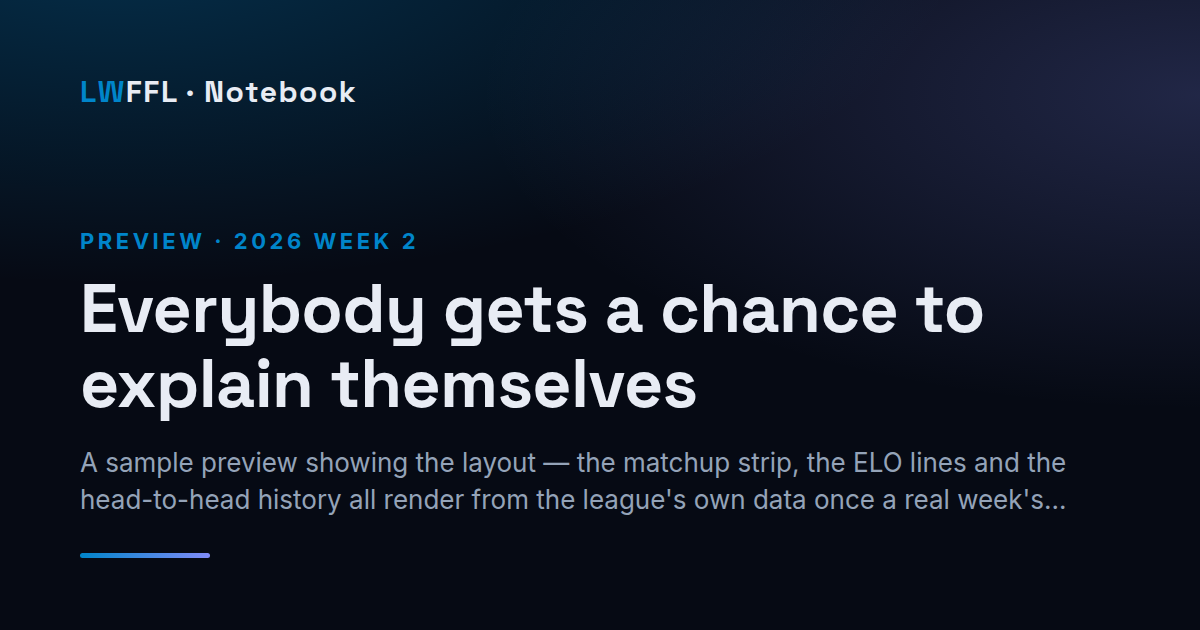
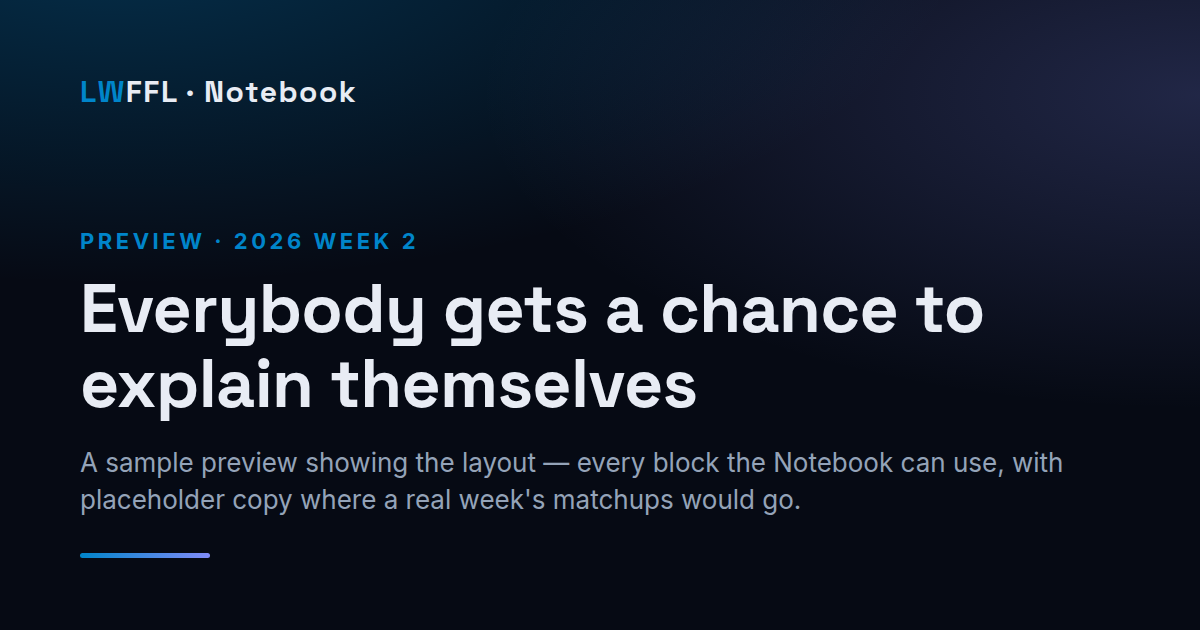
Notebook: drop the trailing note, enrich the preview, add a test image
- Removed the "every figure above is read from the box scores" note from the
  Week 1 recap.

- Rewrote the sample preview so it demonstrates the format instead of
  describing it: a stat callout, a stats row, a matchup table, a pull quote,
  a figure and a standings embed, each with a line saying what it is for. It
  was the one post still reading as flat prose.

- Added the supplied photo to the Week 1 recap via ::: image with a caption.
  It is referenced at its original URL, which means the image lives on
  someone else's CDN behind a signed "auth" parameter — if that signature
  expires the image breaks. Saving the file into n/img/ and pointing at it
  there is the durable version.

- Standings embeds now label themselves by the last week actually played
  rather than the week the post is about. A preview is written before its own
  week happens, so the sample was headed "through week 2" above week 1 rows.

Claude-Session: https://claude.ai/code/session_01FMe6u4bFLPAv1oBMJRRxgM

Changed region(s): [[0.0617, 0.7841, 0.8942, 0.8143], [0.4625, 0.6937, 0.8942, 0.754]]

diff --git a/n/2026-w2-preview.html b/n/2026-w2-preview.html
@@ -7,11 +7,11 @@
 
   <!-- Discord and iMessage read these without running JS. This is the whole
        reason each post is a real file instead of a client-rendered route. -->
-  <meta name="description" content="A sample preview showing the layout — the matchup strip, the ELO lines and the head-to-head history all render from the league's own data once a real week's schedule is in." />
+  <meta name="description" content="A sample preview showing the layout — every block the Notebook can use, with placeholder copy where a real week's matchups would go." />
   <meta property="og:type" content="article" />
   <meta property="og:site_name" content="LWFFL Notebook" />
   <meta property="og:title" content="Everybody gets a chance to explain themselves" />
-  <meta property="og:description" content="A sample preview showing the layout — the matchup strip, the ELO lines and the head-to-head history all render from the league's own data once a real week's schedule is in." />
+  <meta property="og:description" content="A sample preview showing the layout — every block the Notebook can use, with placeholder copy where a real week's matchups would go." />
   <meta property="og:url" content="https://lwffl.com/n/2026-w2-preview.html" />
   <meta property="og:image" content="https://lwffl.com/n/cards/2026-w2-preview.png" />
   <meta property="article:published_time" content="2026-09-18" />
@@ -52,7 +52,7 @@
     <header class="post-head">
       <div class="post-kicker">Preview · Week 2</div>
       <h1>Everybody gets a chance to explain themselves</h1>
-      <p class="post-dek">A sample preview showing the layout — the matchup strip, the ELO lines and the head-to-head history all render from the league's own data once a real week's schedule is in.</p>
+      <p class="post-dek">A sample preview showing the layout — every block the Notebook can use, with placeholder copy where a real week's matchups would go.</p>
       <div class="post-meta">
         <span>September 18, 2026</span><span class="dot">·</span>
         <span>Cobey</span>
@@ -62,19 +62,49 @@
     </header>
 
     <div class="post-body">
-<p class="lede">This is a <strong>sample post</strong> showing what a Thursday preview looks like on the page. The prose is placeholder; the structure is real.</p>
-<h2>How a preview reads</h2>
-<p>The opening is the week's framing — who has something to prove, which game decides an early division, what the Week 1 results did and didn't tell us. Two or three paragraphs, no more.</p>
-<p>Then the matchups worth watching, each with the line and whatever history is relevant:</p>
-<ul><li>The rematch of a playoff game nobody has stopped talking about</li><li>The one where a manager faces the guy he traded his starting quarterback to</li><li>The one that looks lopsided on paper and never is</li></ul>
-<h2>Why the numbers aren't typed here</h2>
-<p>On a real preview this section carries a matchup strip generated from the league's ELO ratings and head-to-head record — so the line and the series history are always consistent with <a href="../h2h.html">Head-to-Head</a> and never quietly go stale.</p>
+<p class="lede">This is a <strong>sample post</strong>. The copy is placeholder; every block below is real and works exactly like this in a live preview.</p>
+<p>A Thursday preview opens with the week's framing — who has something to prove, which game decides an early division, what Week 1 did and didn't tell us. Two or three paragraphs, then the numbers take over.</p>
+<h2>The number that frames the week</h2>
+<div class="pb-stat">
+        <div class="pb-stat-v">42.00</div>
+        <div class="pb-stat-t">
+          <div class="pb-stat-l">Cobey's Week 1 margin</div>
+          <div class="pb-stat-n">The largest of the opening week, and the reason he is favoured here.</div>
+          
+        </div></div>
+<p>A single figure, set large, for the one thing you want people to remember. Drop it wherever it lands hardest — usually right after the paragraph that earns it.</p>
+<h2>The slate</h2>
+<div class="pb-stats">
+        <div class="pb-stats-i">
+          <div class="pb-stats-v">6</div>
+          <div class="pb-stats-l">Games</div>
+          <div class="pb-stats-n">Week 2</div>
+        </div>
+        <div class="pb-stats-i">
+          <div class="pb-stats-v">1500</div>
+          <div class="pb-stats-l">Median ELO</div>
+          <div class="pb-stats-n">Across the league</div>
+        </div>
+        <div class="pb-stats-i">
+          <div class="pb-stats-v">4</div>
+          <div class="pb-stats-l">Rematches</div>
+          <div class="pb-stats-n">Of a 2025 playoff game</div>
+        </div></div>
+<p>A row of smaller figures when several things matter at once and none of them deserves the full treatment.</p>
+<div class="table-card post-table"><div class="table-scroll"><table>
+    <thead><tr><th>Matchup</th><th>Line</th><th>Series</th></tr></thead>
+    <tbody><tr><td>Stuart vs Cobey</td><td>Stuart −3.5</td><td>7–5 Cobey</td></tr><tr><td>Thomas vs Chad</td><td>Thomas −1.0</td><td>9–9</td></tr><tr><td>Adam vs Samuel</td><td>Samuel −8.5</td><td>4–8 Samuel</td></tr></tbody>
+    </table></div></div>
+<p>Ordinary markdown tables work, which is usually the cleanest way to lay out a slate.</p>
+<figure class="pb-pull"><blockquote>The rematch nobody has stopped talking about, eleven months later.</blockquote></figure>
+<p>A pull quote for the line worth stealing — set in the display face so it breaks the column visually rather than just sitting there in italics.</p>
 <h2>Images</h2>
-<p>Drop a file in <code>n/img/</code> and reference it the ordinary markdown way. An image on its own line becomes a figure, and the alt text becomes the caption:</p>
-<figure class="pb-fig"><img loading="lazy" alt="A share card, standing in for a real photo — any image in the repo works the same way." src="../n/cards/2026-w1-recap.png"><figcaption>A share card, standing in for a real photo — any image in the repo works the same way.</figcaption></figure>
-<p>Use <code>::: image path | caption</code> instead when the caption should differ from the alt text, and add a line inside the block to let it break the reading column on wide screens.</p>
-<p>A post can also set <code>image:</code> in its frontmatter to override the generated share card, so a link with a real photo unfurls with that photo rather than the text card.</p>
-<blockquote>Replace this file with the week's real preview and the sample badge disappears on its own.</blockquote>
+<figure class="pb-fig"><img loading="lazy" alt="A photo runs full width with its caption underneath. Drop a file in n/img/ and reference it the ordinary markdown way." src="../n/cards/2026-w1-recap.png"><figcaption>A photo runs full width with its caption underneath. Drop a file in n/img/ and reference it the ordinary markdown way.</figcaption></figure>
+<p>Use <code>::: image path | caption</code> instead when the caption should differ from the alt text. A post can also set <code>image:</code> in its frontmatter to override the share card, so a link with a real photo unfurls with that photo rather than the generated text card.</p>
+<h2>Where last week left things</h2>
+<div class="nb-embed" data-embed="standings"></div>
+<p>The standings and the scoreboard are read from the league's own box scores when the page loads, not typed in — so they stay correct however long it has been.</p>
+<aside class="pb-note">Replace this file with the week's real preview and the sample badge disappears on its own.</aside>
     </div>
 
     <!-- filled client-side from the same JSON the rest of the site uses -->

diff --git a/n/2026-w1-recap.html b/n/2026-w1-recap.html
@@ -72,6 +72,9 @@
           
         </div></div>
 <p>That's what Stuart hung on Connor, who put up 104.36 — a score that would have won four of the other five games this week and still lost by 34. There is no lineup decision available to Connor that changes the outcome. Some weeks you simply run into it.</p>
+<figure class="pb-fig">
+        <img loading="lazy" alt="Week 1 is over and one manager already looks like a problem." src="https://gray-wand-prod.gtv-cdn.com/resizer/v2/3EEUFRBIHVECTP76OYVK3U3L34.jpg?auth=82025a3bbe88d11d80653cfce0fcd8c4f381a87551486b604b7021647d1f1caf&amp;width=800&amp;height=450&amp;smart=true">
+        <figcaption>Week 1 is over and one manager already looks like a problem.</figcaption></figure>
 <figure class="pb-pull"><blockquote>There is no lineup Connor sets that wins this game.</blockquote></figure>
 <h2>The only real game</h2>
 <p>Thomas over Will by <strong>8.26</strong> was the week's lone contest, and the only matchup where either manager had a reason to watch the late window. Everything else was settled by early afternoon.</p>
@@ -101,7 +104,6 @@
 <p>Nothing, probably. Week 1 correlates with nothing except the standings, and the standings in September are decoration. Check back in five weeks and the league will look different.</p>
 <p>Except for Stuart. That looked real.</p>
 <div class="nb-embed" data-embed="standings"></div>
-<aside class="pb-note">Every figure above is read from the league's box scores when the page loads, not typed into the post — so it will still be right years from now.</aside>
     </div>
 
     <!-- filled client-side from the same JSON the rest of the site uses -->

diff --git a/assets/notebook.js b/assets/notebook.js
@@ -87,8 +87,14 @@ function notebookPost(article) {
     }
 
     function standings() {
+      /* A preview is written before its own week is played, so label the
+         table by the last week that actually has games rather than the week
+         the post is about. */
+      const played = M.perfs.filter(p => p.year === year && p.week <= week);
+      if (!played.length) return "";
+      const through = Math.max(...played.map(p => p.week));
       const rows = {};
-      M.perfs.filter(p => p.year === year && p.week <= week).forEach(p => {
+      played.forEach(p => {
         const r = rows[p.manager] = rows[p.manager] || { m: p.manager, w: 0, l: 0, t: 0, pf: 0 };
         if (p.pf > p.pa) r.w++; else if (p.pf < p.pa) r.l++; else r.t++;
         r.pf += p.pf;
@@ -97,7 +103,7 @@ function notebookPost(article) {
         (b.w - b.l) - (a.w - a.l) || b.pf - a.pf);
       if (!list.length) return "";
       return `
-        <div class="section-label">Standings through week ${week}</div>
+        <div class="section-label">Standings through week ${through}</div>
         <div class="table-card post-table"><div class="table-scroll"><table>
           <thead><tr><th>#</th><th>Manager</th><th class="num">Record</th><th class="num">PF</th></tr></thead>
           <tbody>${list.map((r, i) => `<tr>

diff --git a/n/cards/2026-w2-preview.html b/n/cards/2026-w2-preview.html
@@ -22,6 +22,6 @@
   <div class="brand"><span>LW</span>FFL · Notebook</div>
   <div class="kick">Preview · 2026 Week 2</div>
   <h1>Everybody gets a chance to explain themselves</h1>
-  <div class="dek">A sample preview showing the layout — the matchup strip, the ELO lines and the head-to-head history all render from the league's own data once a real week's schedule is in.</div>
+  <div class="dek">A sample preview showing the layout — every block the Notebook can use, with placeholder copy where a real week's matchups would go.</div>
   <div class="rule"></div>
 </div></body></html>

diff --git a/data/notebook/2026-w2-preview.md b/data/notebook/2026-w2-preview.md
@@ -4,35 +4,59 @@ edition: preview
 year: 2026
 week: 2
 title: Everybody gets a chance to explain themselves
-dek: A sample preview showing the layout — the matchup strip, the ELO lines and the head-to-head history all render from the league's own data once a real week's schedule is in.
+dek: A sample preview showing the layout — every block the Notebook can use, with placeholder copy where a real week's matchups would go.
 date: 2026-09-18
 author: Cobey
 sample: true
 ---
-This is a **sample post** showing what a Thursday preview looks like on the page. The prose is placeholder; the structure is real.
+This is a **sample post**. The copy is placeholder; every block below is real and works exactly like this in a live preview.
 
-## How a preview reads
+A Thursday preview opens with the week's framing — who has something to prove, which game decides an early division, what Week 1 did and didn't tell us. Two or three paragraphs, then the numbers take over.
 
-The opening is the week's framing — who has something to prove, which game decides an early division, what the Week 1 results did and didn't tell us. Two or three paragraphs, no more.
+## The number that frames the week
 
-Then the matchups worth watching, each with the line and whatever history is relevant:
+::: stat 42.00 | Cobey's Week 1 margin | The largest of the opening week, and the reason he is favoured here.
+:::
 
-- The rematch of a playoff game nobody has stopped talking about
-- The one where a manager faces the guy he traded his starting quarterback to
-- The one that looks lopsided on paper and never is
+A single figure, set large, for the one thing you want people to remember. Drop it wherever it lands hardest — usually right after the paragraph that earns it.
 
-## Why the numbers aren't typed here
+## The slate
 
-On a real preview this section carries a matchup strip generated from the league's ELO ratings and head-to-head record — so the line and the series history are always consistent with [Head-to-Head](../h2h.html) and never quietly go stale.
+::: stats
+6 | Games | Week 2
+1500 | Median ELO | Across the league
+4 | Rematches | Of a 2025 playoff game
+:::
+
+A row of smaller figures when several things matter at once and none of them deserves the full treatment.
+
+| Matchup | Line | Series |
+|---|---|---|
+| Stuart vs Cobey | Stuart −3.5 | 7–5 Cobey |
+| Thomas vs Chad | Thomas −1.0 | 9–9 |
+| Adam vs Samuel | Samuel −8.5 | 4–8 Samuel |
+
+Ordinary markdown tables work, which is usually the cleanest way to lay out a slate.
+
+::: pull
+The rematch nobody has stopped talking about, eleven months later.
+:::
+
+A pull quote for the line worth stealing — set in the display face so it breaks the column visually rather than just sitting there in italics.
 
 ## Images
 
-Drop a file in `n/img/` and reference it the ordinary markdown way. An image on its own line becomes a figure, and the alt text becomes the caption:
+![A photo runs full width with its caption underneath. Drop a file in n/img/ and reference it the ordinary markdown way.](../n/cards/2026-w1-recap.png)
 
-![A share card, standing in for a real photo — any image in the repo works the same way.](../n/cards/2026-w1-recap.png)
+Use `::: image path | caption` instead when the caption should differ from the alt text. A post can also set `image:` in its frontmatter to override the share card, so a link with a real photo unfurls with that photo rather than the generated text card.
 
-Use `::: image path | caption` instead when the caption should differ from the alt text, and add a line inside the block to let it break the reading column on wide screens.
+## Where last week left things
 
-A post can also set `image:` in its frontmatter to override the generated share card, so a link with a real photo unfurls with that photo rather than the text card.
+::: standings
+:::
 
-> Replace this file with the week's real preview and the sample badge disappears on its own.
+The standings and the scoreboard are read from the league's own box scores when the page loads, not typed in — so they stay correct however long it has been.
+
+::: note
+Replace this file with the week's real preview and the sample badge disappears on its own.
+:::

diff --git a/data/notebook/2026-w1-recap.md b/data/notebook/2026-w1-recap.md
@@ -17,6 +17,9 @@ The first Sunday of a fantasy season is supposed to tell you nothing. This one t
 
 That's what Stuart hung on Connor, who put up 104.36 — a score that would have won four of the other five games this week and still lost by 34. There is no lineup decision available to Connor that changes the outcome. Some weeks you simply run into it.
 
+::: image https://gray-wand-prod.gtv-cdn.com/resizer/v2/3EEUFRBIHVECTP76OYVK3U3L34.jpg?auth=82025a3bbe88d11d80653cfce0fcd8c4f381a87551486b604b7021647d1f1caf&width=800&height=450&smart=true | Week 1 is over and one manager already looks like a problem.
+:::
+
 ::: pull
 There is no lineup Connor sets that wins this game.
 :::
@@ -51,8 +54,4 @@ Nothing, probably. Week 1 correlates with nothing except the standings, and the 
 Except for Stuart. That looked real.
 
 ::: standings
-:::
-
-::: note
-Every figure above is read from the league's box scores when the page loads, not typed into the post — so it will still be right years from now.
 :::
